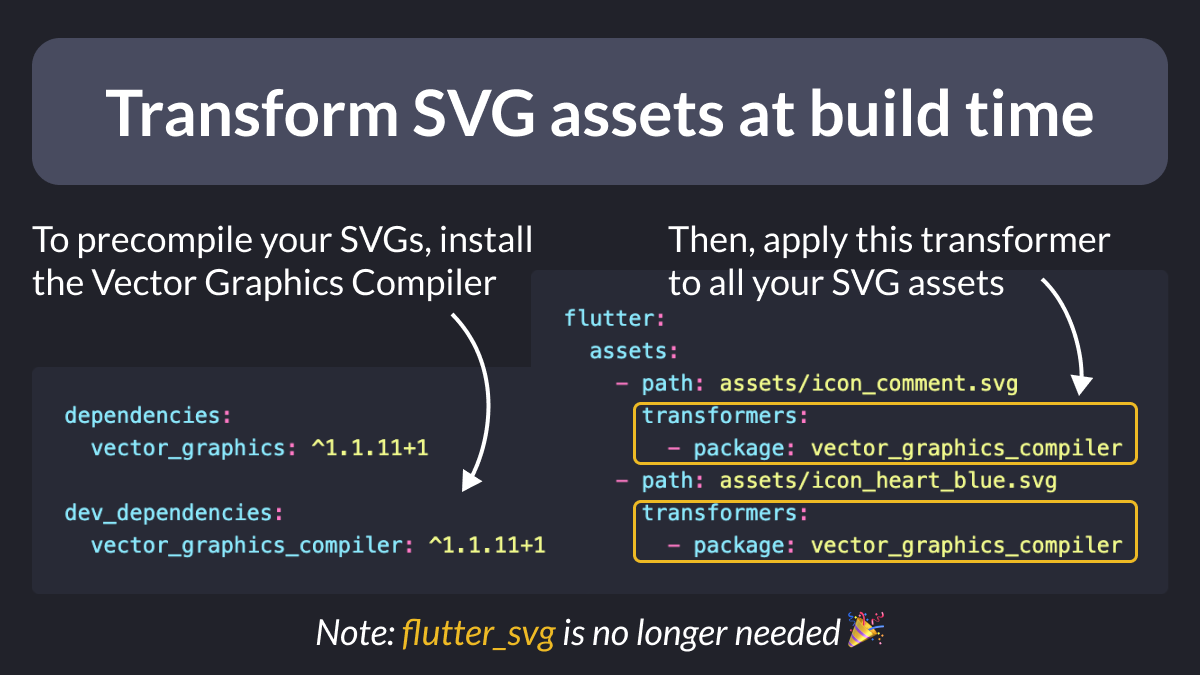
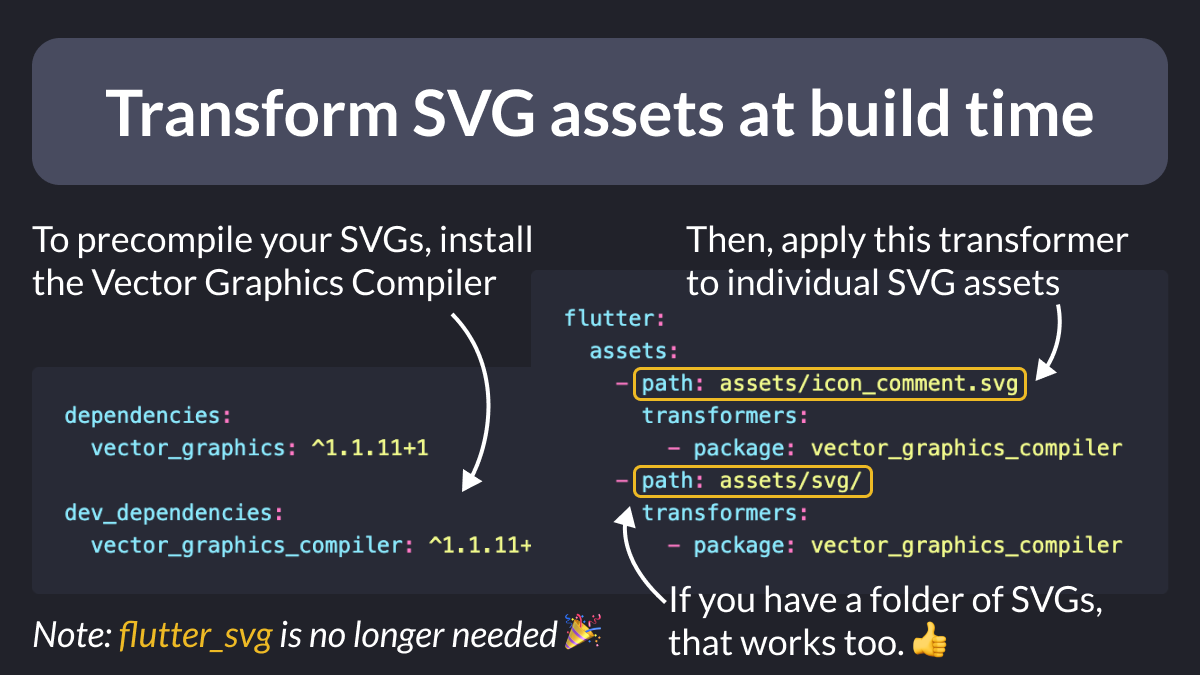
Update tip 161

Changed region(s): [[0.0308, 0.8089, 0.9558, 0.9956], [0.5242, 0.3111, 0.9558, 0.6222], [0.4933, 0.6844, 0.9558, 0.8089]]

diff --git a/tips/0161-vector-graphics-compiler/index.md b/tips/0161-vector-graphics-compiler/index.md
@@ -4,7 +4,7 @@ Did you know?
 
 With the Vector Graphics Compiler, you can precompile SVGs at build time for better rendering performance.
 
-To do this, install the `vector_graphics_compiler` package and use it as a transformer for each of your SVG assets.
+To do this, install the [`vector_graphics_compiler`](https://pub.dev/packages/vector_graphics_compiler) package and use it as a transformer for your SVG assets (both individual files and folders are supported).
 
 ![](161.1.png)
 
@@ -17,10 +17,12 @@ dev_dependencies:
 
 flutter:
   assets:
+    # Apply transformer to a single SVG file
     - path: assets/icon_comment.svg
       transformers:
         - package: vector_graphics_compiler
-    - path: assets/icon_heart_blue.svg
+    # Apply transformer to a folder of SVGs
+    - path: assets/svg/
       transformers:
         - package: vector_graphics_compiler
 -->
